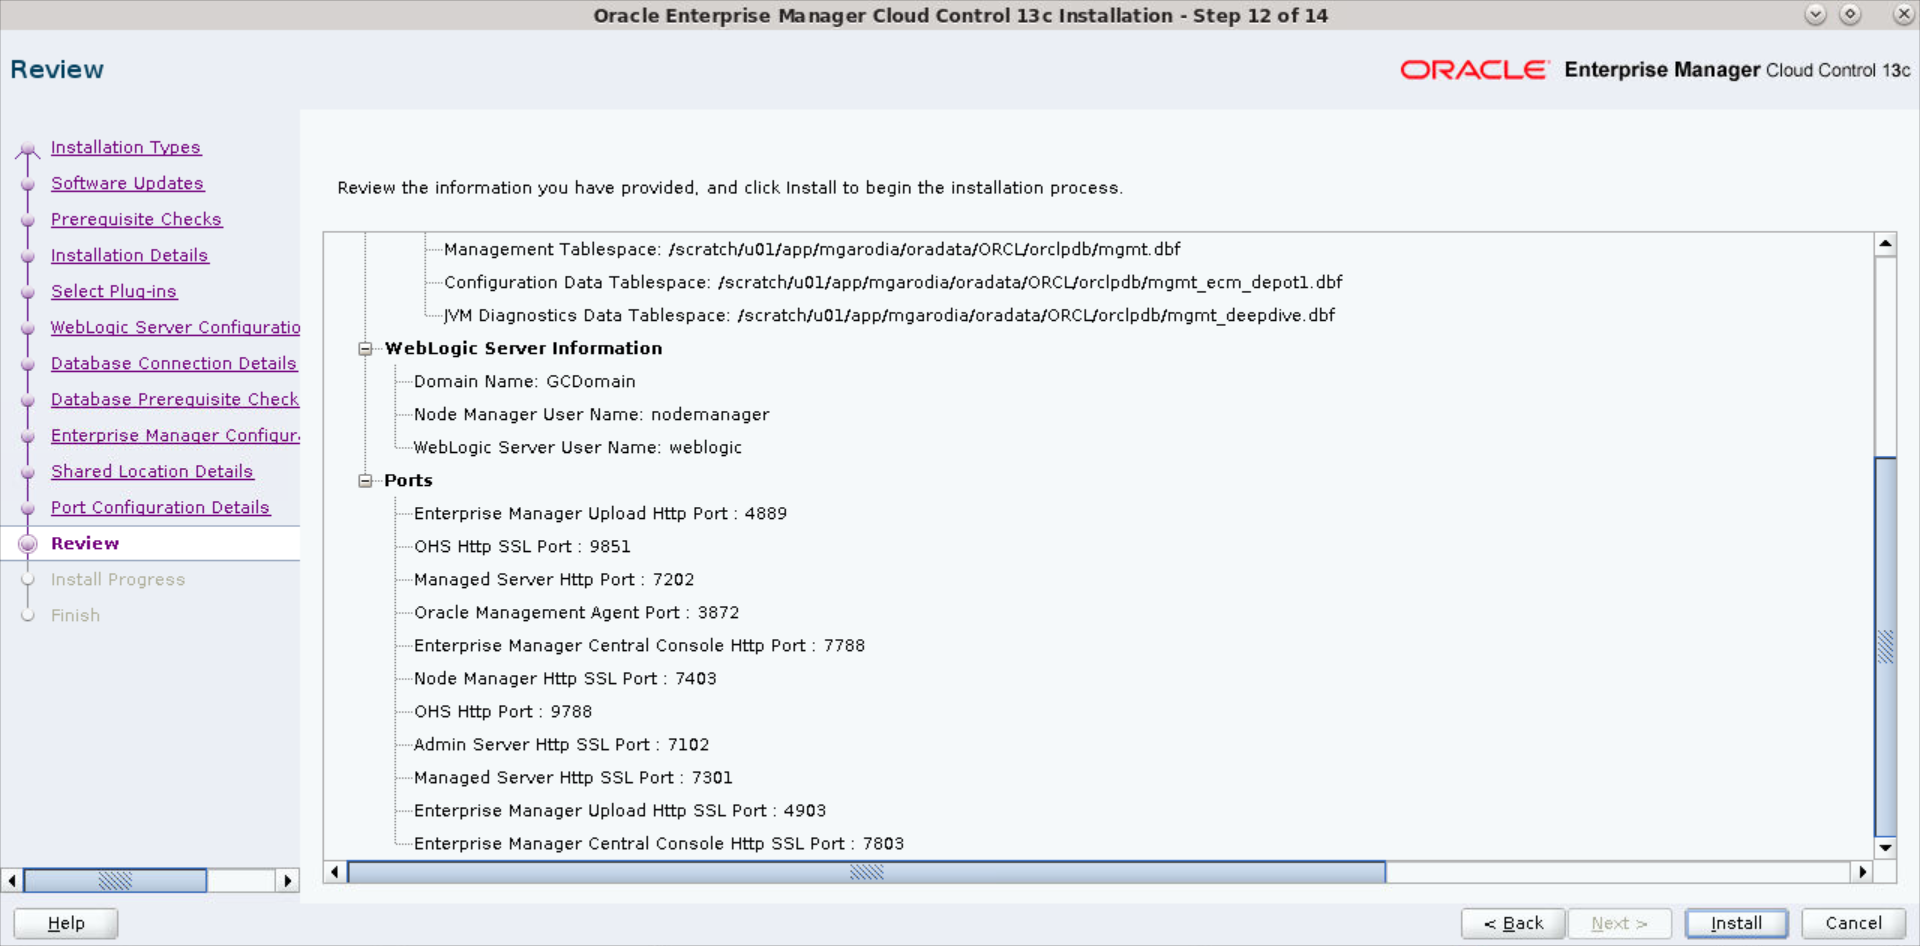
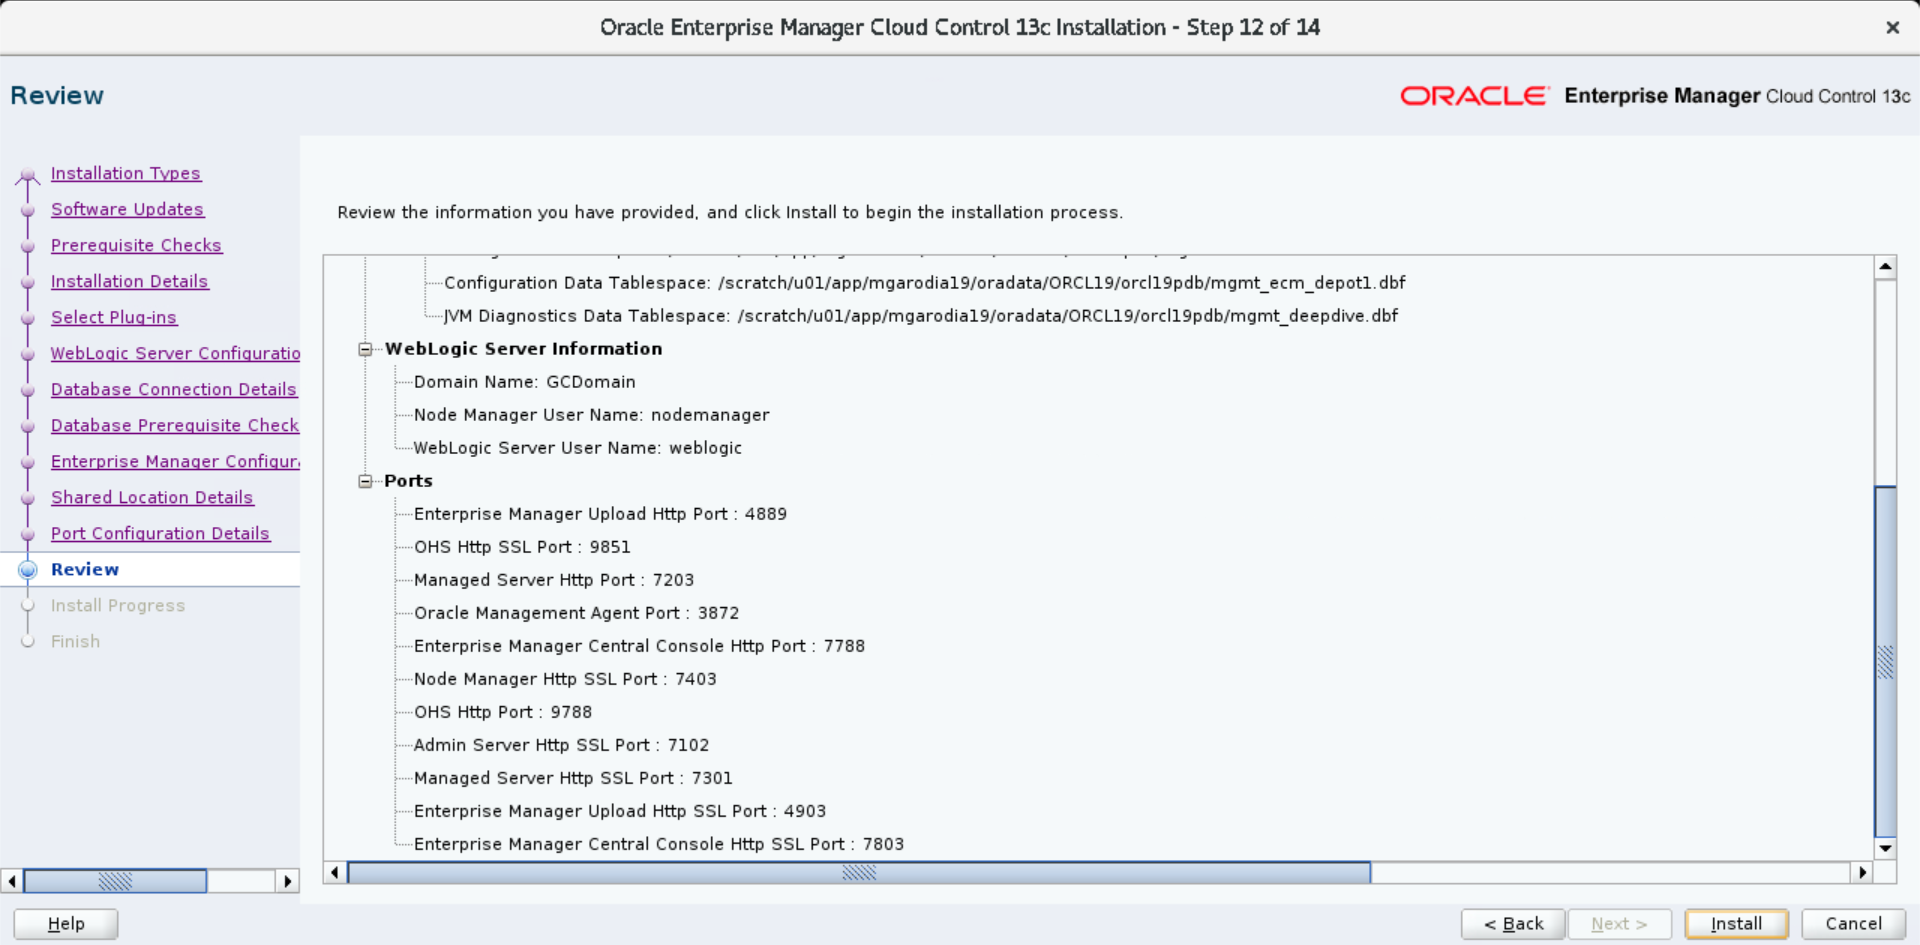
updated images, updated new VM host, EM login, OMS-agent status
- updated images for db-check, review, finish to show new VM
- added/updated info as per new VM (phoenix211284)
- added info about default tablespaces
- updated root script output
- moved info about EM login from install-db gold image
- how to check oms, agent status
- added to troubleshooting: EM deinstall failed unable to delete OMS

~MG

diff --git a/common/lib-cellar/procedures/install-em/install-em.md b/common/lib-cellar/procedures/install-em/install-em.md
@@ -106,6 +106,7 @@ $ <copy>./em13500_linux64.bin EMPREREQ_KIT=true</copy>
 
 | VM                                   | Path                | Remarks                                 |
 |--------------------------------------|---------------------|-----------------------------------------|
+| `phoenix211284.dev3sub1phx.databasede3phx.oraclevcn.com:1` | `/scratch/mgarodia/installers/emcc135`  | Executable |
 | `phoenix123546.dev3sub1phx.databasede3phx.oraclevcn.com:1` | `/scratch/mgarodia/installers/emcc135`  | Executable |
 | `phoenix62464.dev1sub1phx.databasede1phx.oraclevcn.com:1`  | `/scratch/u01/installers/emcc135`       | Executable |
 | `slc10wsw.us.oracle.com:2`                                 | `/scratch/em_software13.5`              |           |
@@ -173,7 +174,7 @@ $ <copy>./em13500_linux64.bin EMPREREQ_KIT=true</copy>
 	- **Host Name** (auto-filled)
 
 		```
-		<copy>phoenix123546.dev3sub1phx.databasede3phx.oraclevcn.com</copy>
+		<copy>phoenix211284.dev3sub1phx.databasede3phx.oraclevcn.com</copy>
 		```
 
 1. Select Plug-ins - Leave the defaults.
@@ -206,10 +207,10 @@ These credentials are required for the maintenance of EM.
 	- **Database Host Name**
 
 		```
-		<copy>phoenix123546.dev3sub1phx.databasede3phx.oraclevcn.com</copy>
+		<copy>phoenix211284.dev3sub1phx.databasede3phx.oraclevcn.com</copy>
 		```
 
-	- **Port** - *1522*   
+	- **Port** - *1519*   
 	Check listener status in the ORACLE_HOME/bin)
 	- **Service/SID** - *orcl19pdb.host-domain*   
 	Enter the PDB name followed by the full domain name of the host.
@@ -249,7 +250,15 @@ These credentials are required for the maintenance of EM.
 	- **Agent Registration Password** - Enter Agent login password <if type="hidden">*Welcome_1*</if>   
 	(re-enter to confirm password)
 
-	For tablespaces, leave the defaults.
+	Oracle Database 19c has some default tablespaces under this location - 
+
+	```
+	$ <copy>/scratch/u01/app/mgarodia19/oradata/ORCL19/orcl19pdb</copy>
+	```
+
+	The default tablespaces are *`sysaux01.dbf`*, *`system01.dbf`*, *`temp01.dbf`*, *`undotbs01.dbf`*, and *`users01.dbf`*. The EM installer adds further tablespaces to this location. 
+
+	Leave the defaults and continue.
 
 	| Tablespace           | File full path                                                       |
 	|----------------------|----------------------------------------------------------------------|
@@ -282,16 +291,49 @@ These credentials are required for the maintenance of EM.
 		![All Root script](./images/em-013b-all-root-script.png " ")**Figure:** All Root script
 
 		```
-		$ <copy>/scratch/u01/software/em/middleware/allroot.sh</copy>
+		$ <copy>source /scratch/u01/software/em/middleware/allroot.sh</copy>
+		```
+
+		### Output
+
+		```
+		Starting to execute allroot.sh ......... 
+
+		Starting to execute /scratch/u01/software/em/middleware/root.sh ......
+		Performing root user operation.
+
+		The following environment variables are set as:
+			ORACLE_OWNER= mgarodia
+			ORACLE_HOME=  /scratch/u01/software/em/middleware
+		```
+
+		Press Enter
+
+		```
+		Enter the full pathname of the local bin directory: 
+		[/usr/local/bin]: 
+		```
+
+		Press Enter again.
+
+		```
+		/usr/local/bin is read only.  Continue without copy (y/n) or retry (r)? 
+		[y]: 
 		```
 
 		## Result
 
 		```
-		Starting to execute allroot.sh .........
+		Warning: /usr/local/bin is read only. No files will be copied.
 
-		Starting to execute /scratch/u01/software/em/middleware/root.sh ......
-		Check /scratch/u01/software/em/middleware/install/root_phoenix62464_2021-08-11_05-28-03.log for the output of root script
+		Entries will be added to the /etc/oratab file as needed by
+		Database Configuration Assistant when a database is created
+		Finished running generic part of root script.
+		Now product-specific root actions will be performed.
+		/etc exist
+
+		Creating /etc/oragchomelist file...
+		/scratch/u01/software/em/middleware
 
 		Finished product-specific root actions.
 		/etc exist
@@ -303,24 +345,25 @@ These credentials are required for the maintenance of EM.
 		Finished product-specific root actions.
 		/etc exist
 		Finished execution of  /scratch/u01/software/em/agent/agent_13.5.0.0.0/root.sh ......
+		You have mail in /var/spool/mail/root
 		```
 
 	 - Return to the installer and click **OK** to continue the installation.
 
 1. On successful completion, the installer displays the Finish window.
 
-	![EM Installation Complete - top](./images/em-014-finish1.png " ")**Figure:** EM Installation Complete - top
+	![EM Installation Complete - top](./images/em-014-finish.png " ")**Figure:** EM Installation Complete
 
-	![EM Installation Complete - bottom](./images/em-014-finish2.png " ")**Figure:** EM Installation Complete - bottom
+	> **Note:** Before you **Close** the installer, do not forget to note the URLs to access EM.
 
-	> **Note:** Before you **Close** the installer, do not forget to note the EM URLs for 19c.
-
-| Interface                    | Link                                         |
-|------------------------------|----------------------------------------------|
-| EM console new             | [https://phoenix123546.dev3sub1phx.databasede3phx.oraclevcn.com:7803/em](https://phoenix123546.dev3sub1phx.databasede3phx.oraclevcn.com:7803/em)      |
-| Admin server <br>console new | [https://phoenix123546.dev3sub1phx.databasede3phx.oraclevcn.com:7102/console](https://phoenix123546.dev3sub1phx.databasede3phx.oraclevcn.com:7102/console) |
-| EM console old             | [https://phoenix62464.dev1sub1phx.databasede1phx.oraclevcn.com:7803/em](https://phoenix62464.dev1sub1phx.databasede1phx.oraclevcn.com:7803/em)       |
-| Admin server <br>console old | [https://phoenix62464.dev1sub1phx.databasede1phx.oraclevcn.com:7102/console](https://phoenix62464.dev1sub1phx.databasede1phx.oraclevcn.com:7102/console)  |
+| Interface                     | Link                                         |
+|-------------------------------|----------------------------------------------|
+| EM console new                | [https://phoenix211284.dev3sub1phx.databasede3phx.oraclevcn.com:7803/em](https://phoenix211284.dev3sub1phx.databasede3phx.oraclevcn.com:7803/em)       |
+| Admin server <br>console new  | [https://phoenix211284.dev3sub1phx.databasede3phx.oraclevcn.com:7102/console](https://phoenix211284.dev3sub1phx.databasede3phx.oraclevcn.com:7102/console)  |
+| EM console old2               | [https://phoenix123546.dev3sub1phx.databasede3phx.oraclevcn.com:7803/em](https://phoenix123546.dev3sub1phx.databasede3phx.oraclevcn.com:7803/em)       |
+| Admin server <br>console old2 | [https://phoenix123546.dev3sub1phx.databasede3phx.oraclevcn.com:7102/console](https://phoenix123546.dev3sub1phx.databasede3phx.oraclevcn.com:7102/console)  |
+| EM console old1               | [https://phoenix62464.dev1sub1phx.databasede1phx.oraclevcn.com:7803/em](https://phoenix62464.dev1sub1phx.databasede1phx.oraclevcn.com:7803/em)        |
+| Admin server <br>console old1 | [https://phoenix62464.dev1sub1phx.databasede1phx.oraclevcn.com:7102/console](https://phoenix62464.dev1sub1phx.databasede1phx.oraclevcn.com:7102/console)   |
 
 ### EM folder locations
 
@@ -330,9 +373,147 @@ These credentials are required for the maintenance of EM.
 > **Cite**:    
 > Another EM installation procedure explained here - [Manual EM Shiphome installation on OCI](https://confluence.oraclecorp.com/confluence/display/EMQ/Manual+EM+Shiphome+installation+on+OCI)
 
-## Task 3: Deinstall EM
+## Task 3: EM post installation checks
 
-> **Note:** Do not deinstall the repository database (Oracle Database 19c) before deinstalling EM. Else, it will return an error `The OMS delete of EMGC_OMS1 has failed.`
+- After installing EM, you can log into the EM console using a web browser.
+
+	> **Note**: You can access the EM console only if OMS and agent are up and running.
+
+	----
+	## Log in to EM
+
+	Open this page in a web browser - [EM login](https://phoenix211284.dev3sub1phx.databasede3phx.oraclevcn.com:7803/em).
+
+	**Credentials**
+	 - User name - *sysman*
+	 - Password - Enter the password <if type="hidden">*Welcome_1*</if>
+
+	----
+	### Log in to EM Express - Decommissioned
+
+	EM Exp for DB 19c
+	 - [CDB$ROOT port 5501](https://phoenix211284.dev3sub1phx.databasede3phx.oraclevcn.com:5501/em)   
+	 - [ORCL19CCDB port 5502](https://phoenix211284.dev3sub1phx.databasede3phx.oraclevcn.com:5502/em)   
+
+	EM Exp for DB 21c
+	 - [CDB$ROOT port 5500](https://phoenix211284.dev3sub1phx.databasede3phx.oraclevcn.com:5500/em)
+	 - [ORCLPDB port 5504](https://phoenix211284.dev3sub1phx.databasede3phx.oraclevcn.com:5504/em)
+
+	**Credentials**
+	 - User name - *system*
+	 - Password - Enter the password <if type="hidden">*Welcome_1*</if>
+	 - Container name - (leave empty)
+
+	> **Note:** If you forget the database password, dig into the [Admin Guide](https://docs.oracle.com/en/database/oracle/oracle-database/21/admin/index.html) and fish out how to change the password externally.
+
+
+	----
+	## Check OMS status
+
+	1. In a terminal, go to the middleware home location.
+	
+		```
+		$ <copy>cd /scratch/u01/software/em/middleware/bin</copy>
+		```
+
+	1. Check the OMS status.
+	
+		```
+		$ <copy>./emctl status oms</copy>
+		```
+
+		Success
+
+		```
+		Oracle Enterprise Manager Cloud Control 13c Release 5  
+		Copyright (c) 1996, 2021 Oracle Corporation.  All rights reserved.
+		WebTier is Up
+		Oracle Management Server is Up
+		JVMD Engine is Up
+		```
+
+		Error
+
+		```
+		Oracle Enterprise Manager Cloud Control 13c Release 5  
+		Copyright (c) 1996, 2021 Oracle Corporation.  All rights reserved.
+		WebTier is Up
+		Oracle Management Server is Down
+		JVMD Engine is Down
+		```
+
+		If OMS is down, start the OMS server. 
+
+		```
+		$ <copy>./emctl start oms</copy>
+		```
+
+	----
+	## Check Agent status
+
+	1. In a terminal, go to the agent location.
+	
+		```
+		$ <copy>cd /scratch/u01/software/em/agent/agent_13.5.0.0.0/bin</copy>
+		```
+
+	1. Check the agent status.
+	
+		```
+		$ <copy>./emctl status agent</copy>
+		```
+	
+		```
+		Oracle Enterprise Manager Cloud Control 13c Release 5  
+		Copyright (c) 1996, 2021 Oracle Corporation.  All rights reserved.
+		---------------------------------------------------------------
+		Agent Version          : 13.5.0.0.0
+		OMS Version            : 13.5.0.0.0
+		Protocol Version       : 12.1.0.1.0
+		Agent Home             : /scratch/u01/software/em/agent/agent_inst
+		Agent Log Directory    : /scratch/u01/software/em/agent/agent_inst/sysman/log
+		Agent Binaries         : /scratch/u01/software/em/agent/agent_13.5.0.0.0
+		Core JAR Location      : /scratch/u01/software/em/agent/agent_13.5.0.0.0/jlib
+		Agent Process ID       : 3037157
+		Parent Process ID      : 145906
+		Agent URL              : https://phoenix211284.dev3sub1phx.databasede3phx.oraclevcn.com:3872/emd/main/
+		Local Agent URL in NAT : https://phoenix211284.dev3sub1phx.databasede3phx.oraclevcn.com:3872/emd/main/
+		Repository URL         : https://phoenix211284.dev3sub1phx.databasede3phx.oraclevcn.com:4903/empbs/upload
+		Started at             : 2023-02-01 17:21:18
+		Started by user        : mgarodia
+		Operating System       : Linux version 5.4.17-2136.312.3.4.el8uek.x86_64 (amd64)
+		Number of Targets      : 46
+		Last Reload            : (none)
+		Last successful upload                       : 2023-02-04 13:51:21
+		Last attempted upload                        : 2023-02-04 13:51:21
+		Total Megabytes of XML files uploaded so far : 7.78
+		Number of XML files pending upload           : 0
+		Size of XML files pending upload(MB)         : 0
+		Available disk space on upload filesystem    : 69.88%
+		Collection Status                            : Collections enabled
+		Heartbeat Status                             : Ok
+		Last attempted heartbeat to OMS              : 2023-02-04 13:51:27
+		Last successful heartbeat to OMS             : 2023-02-04 13:51:27
+		Next scheduled heartbeat to OMS              : 2023-02-04 13:52:27
+
+		---------------------------------------------------------------
+		Agent is Running and Ready
+		```
+
+		If Agent is down, start the agent. 
+
+		```
+		$ <copy>./emctl start agent</copy>
+		```
+
+## Task 4: Add targets manually
+
+TBD
+
+
+## Task 5: Deinstall EM
+
+> **Caution:** Do not deinstall the repository database (Oracle Database 19c) before deinstalling EM. Else, it will return an error `The OMS delete of EMGC_OMS1 has failed.`
 
 - Run `deinstall` manually
 - Deinstall using script
@@ -552,7 +733,7 @@ A log file is generated to capture the deinstallation process.
 	The location of the file is : /etc/oragchomelist
 	```
 
-## Task 4: Troubleshooting
+## Troubleshooting
 
  - For installation related issues, check the log file under `/tmp/OraInstalldate_time/Installdate_time.log`
 
@@ -1059,8 +1240,45 @@ A log file is generated to capture the deinstallation process.
 
 	Cite: [Oracle Support (Doc ID 1495519.1)](https://support.oracle.com/epmos/faces/DocumentDisplay?_afrLoop=542346969019436&parent=EXTERNAL_SEARCH&sourceId=PROBLEM&id=1495519.1&_afrWindowMode=0&_adf.ctrl-state=dfc7k3t0h_53)
 
+
+	----
+	## EM Deinstall: OMS delete of EMGC_OMS1 has failed
+
+	**Problem statement**   
+	You run the deinstall command to remove EM from your system. The deinstallation failes with the following error.
+
+	```
+	...
+	The oms delete will take sometime. Wait for the completion of the execution. Don't abort the execution.
+
+	log4j:WARN No appenders could be found for logger (emctl.secure.oms.SecureOMSCmds).
+	log4j:WARN Please initialize the log4j system properly.
+	log4j:WARN See http://logging.apache.org/log4j/1.2/faq.html#noconfig for more info.
+	Oracle Enterprise Manager Cloud Control 13c Release 13.5.0.0.0
+	Copyright (c) 1996, 2021, Oracle. All rights reserved.
+
+	OMSCA-ERR:Following Pre requisite check failed:     
+	OMSCA-ERR:Failed to connect to repository database with error: IO Error: The Network Adapter could not establish the connection 
+
+	 return value is : 256
+
+	The OMS delete of EMGC_OMS1 has failed. Rectify the error and try again
+	```
+
+	**What went wrong**   
+	OMS wants to communicate with the repository database (for example, 19c) and say good-bye. But either the repository database is deinstalled already from the host or is unreachable.
+
+	 > **Note:** EM refuse to deinstall if the repository database is unavailable. 
+
+	**Workaround**   
+	In such case, you cannot deinstall EM the usual way anymore. You may hard-remove EM from your system. Delete the EM files/folders manually from the middleware home location. 
+
+	```
+	$ <copy>/scratch/u01/software/em/middleware</copy>
+	```
+
 ## Acknowledgements
 
- - **Author** - Manish Garodia, Team Database UAD
- - **Last Updated on** - November 27, (Sun) 2022
+ - **Author** - ♏🅰♑❗💲♓ Team Database UAD
+ - **Last Updated on** - February 4, (Sat) 2023
  - **Questions/Feedback?** - Blame [manish.garodia@oracle.com](./../../../intro/files/email.md)
